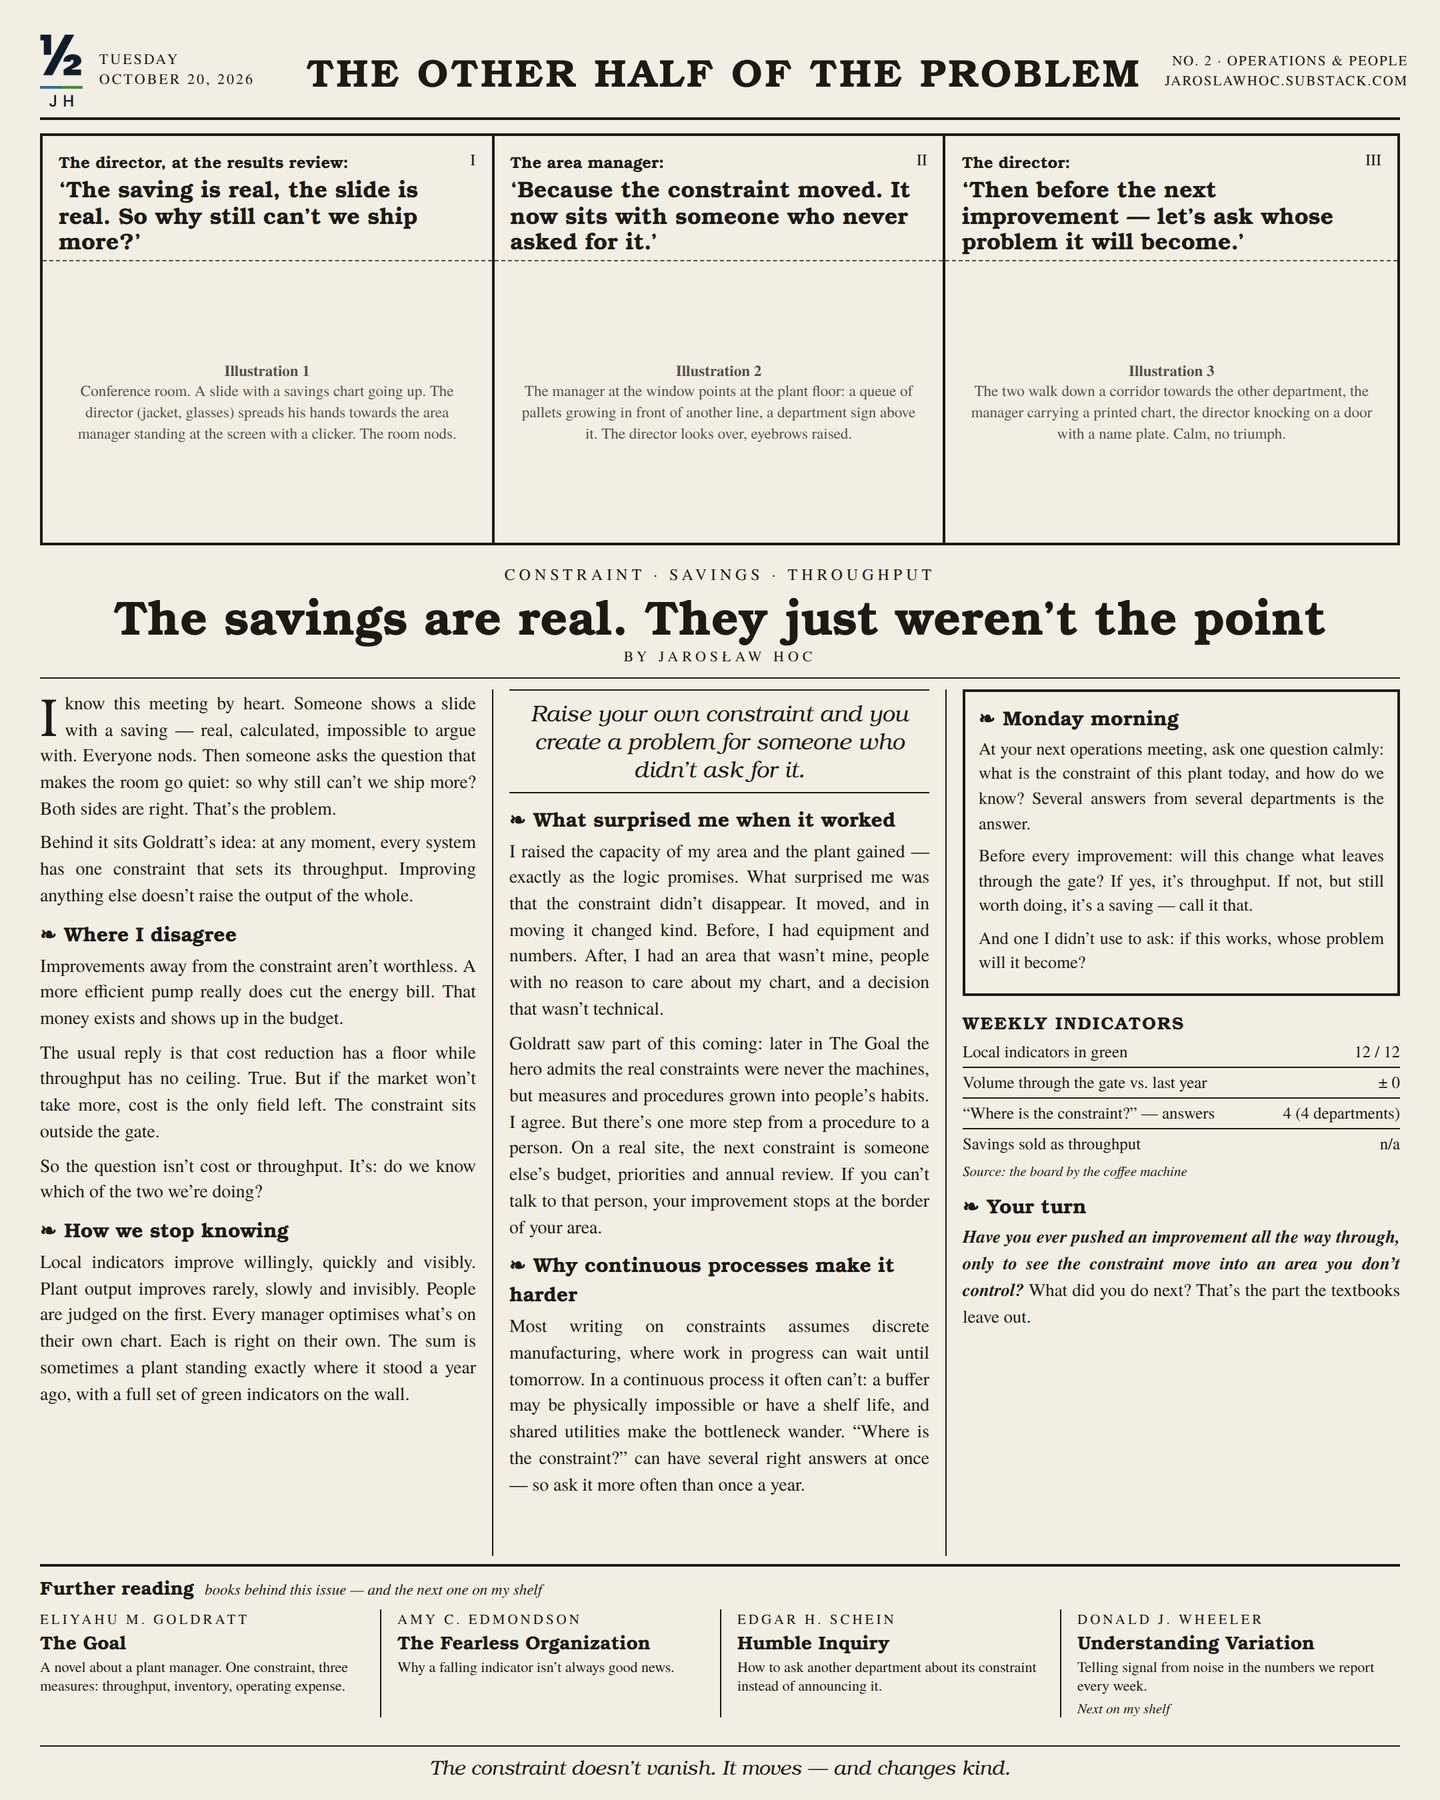
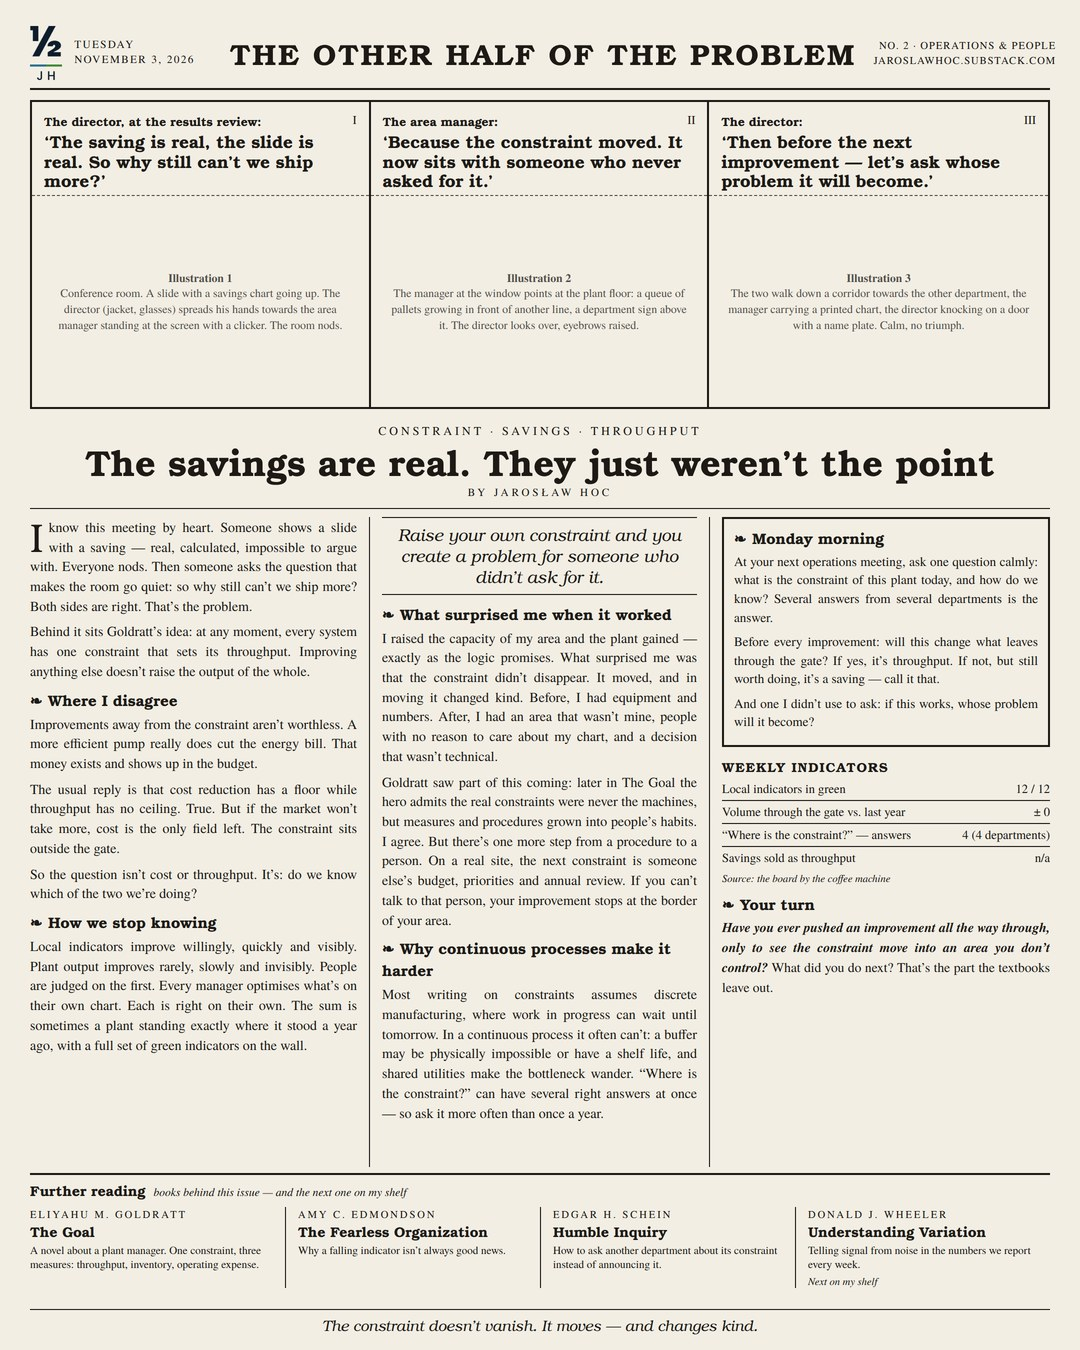
Miesięcznik: nowe daty numerów 2–4 (3.11, 1.12, 5.01)

diff --git a/podglad-7f3k-plan.html b/podglad-7f3k-plan.html
@@ -15,8 +15,8 @@
 <link rel="alternate" hreflang="en" href="https://jaroslawhoc.pl/podglad-7f3k-issues">
 <link rel="preconnect" href="https://fonts.googleapis.com"><link rel="preconnect" href="https://fonts.gstatic.com" crossorigin>
 <link href="https://fonts.googleapis.com/css2?family=Raleway:wght@400;500;600;700&display=swap" rel="stylesheet">
-<link rel="stylesheet" href="style.css?v=1790628794">
-<link rel="icon" href="favicon.png?v=1790628794" type="image/png"><link rel="apple-touch-icon" href="apple-touch-icon.png">
+<link rel="stylesheet" href="style.css?v=1791019325">
+<link rel="icon" href="favicon.png?v=1791019325" type="image/png"><link rel="apple-touch-icon" href="apple-touch-icon.png">
 </head>
 <body>
 <header><div class="wrap nav">
@@ -24,7 +24,7 @@
 <nav class="menu"><a href="podglad-7f3k-start" class="">Teksty</a><a href="podglad-7f3k-numery" class="on">Numery</a><a href="podglad-7f3k-o-mnie" class="">O mnie</a><a href="podglad-7f3k-issues" class="lang" lang="en">EN</a></nav>
 </div></header>
 <main class="wrap">
-<h2>Numery</h2><p class="lead">Każdy tekst ma swoją stronę gazety: rysunek, skrót i jedna rzecz do zrobienia w poniedziałek rano. Kliknij, żeby powiększyć.</p><div class="issues"><figure class="issue"><a href="gazeta-nr2-pl.jpg"><img src="gazeta-nr2-pl.jpg" alt="Oszczędność jest prawdziwa. Tylko nie o nią chodziło" loading="lazy"></a><figcaption><b>Nr 2</b> · 20.10.2026 · <em>w przygotowaniu</em><br>Oszczędność jest prawdziwa. Tylko nie o nią chodziło</figcaption></figure><figure class="issue"><a href="gazeta-nr3-pl.jpg"><img src="gazeta-nr3-pl.jpg" alt="Szczegół jako argument" loading="lazy"></a><figcaption><b>Nr 3</b> · 3.11.2026 · <em>w przygotowaniu</em><br>Szczegół jako argument</figcaption></figure><figure class="issue"><a href="gazeta-nr4-pl.jpg"><img src="gazeta-nr4-pl.jpg" alt="Pytania przed pierwszym problemem" loading="lazy"></a><figcaption><b>Nr 4</b> · 17.11.2026 · <em>w przygotowaniu</em><br>Pytania przed pierwszym problemem</figcaption></figure></div>
+<h2>Numery</h2><p class="lead">Każdy tekst ma swoją stronę gazety: rysunek, skrót i jedna rzecz do zrobienia w poniedziałek rano. Kliknij, żeby powiększyć.</p><div class="issues"><figure class="issue"><a href="gazeta-nr2-pl.jpg"><img src="gazeta-nr2-pl.jpg" alt="Oszczędność jest prawdziwa. Tylko nie o nią chodziło" loading="lazy"></a><figcaption><b>Nr 2</b> · 3.11.2026 · <em>w przygotowaniu</em><br>Oszczędność jest prawdziwa. Tylko nie o nią chodziło</figcaption></figure><figure class="issue"><a href="gazeta-nr3-pl.jpg"><img src="gazeta-nr3-pl.jpg" alt="Szczegół jako argument" loading="lazy"></a><figcaption><b>Nr 3</b> · 1.12.2026 · <em>w przygotowaniu</em><br>Szczegół jako argument</figcaption></figure><figure class="issue"><a href="gazeta-nr4-pl.jpg"><img src="gazeta-nr4-pl.jpg" alt="Pytania przed pierwszym problemem" loading="lazy"></a><figcaption><b>Nr 4</b> · 5.01.2027 · <em>w przygotowaniu</em><br>Pytania przed pierwszym problemem</figcaption></figure></div>
 </main>
 <footer class="wrap">
 <span>© 2026 Jarosław Hoc · Druga połowa problemu</span>

diff --git a/podglad-7f3k-plan-en.html b/podglad-7f3k-plan-en.html
@@ -15,8 +15,8 @@
 <link rel="alternate" hreflang="en" href="https://jaroslawhoc.pl/podglad-7f3k-issues">
 <link rel="preconnect" href="https://fonts.googleapis.com"><link rel="preconnect" href="https://fonts.gstatic.com" crossorigin>
 <link href="https://fonts.googleapis.com/css2?family=Raleway:wght@400;500;600;700&display=swap" rel="stylesheet">
-<link rel="stylesheet" href="style.css?v=1790628794">
-<link rel="icon" href="favicon.png?v=1790628794" type="image/png"><link rel="apple-touch-icon" href="apple-touch-icon.png">
+<link rel="stylesheet" href="style.css?v=1791019325">
+<link rel="icon" href="favicon.png?v=1791019325" type="image/png"><link rel="apple-touch-icon" href="apple-touch-icon.png">
 </head>
 <body>
 <header><div class="wrap nav">
@@ -24,7 +24,7 @@
 <nav class="menu"><a href="podglad-7f3k-en" class="">Writing</a><a href="podglad-7f3k-issues" class="on">Issues</a><a href="podglad-7f3k-about" class="">About</a><a href="podglad-7f3k-numery" class="lang" lang="pl">PL</a></nav>
 </div></header>
 <main class="wrap">
-<h2>Issues</h2><p class="lead">Every piece gets its own newspaper page: a drawing, a digest and one thing to do on Monday morning. Click to enlarge.</p><div class="issues"><figure class="issue"><a href="gazeta-nr2-en.jpg"><img src="gazeta-nr2-en.jpg" alt="The savings are real. They just weren’t the point" loading="lazy"></a><figcaption><b>No. 2</b> · 20 October 2026 · <em>in preparation</em><br>The savings are real. They just weren’t the point</figcaption></figure><figure class="issue"><a href="gazeta-nr3-en.jpg"><img src="gazeta-nr3-en.jpg" alt="The detail is the argument" loading="lazy"></a><figcaption><b>No. 3</b> · 3 November 2026 · <em>in preparation</em><br>The detail is the argument</figcaption></figure><figure class="issue"><a href="gazeta-nr4-en.jpg"><img src="gazeta-nr4-en.jpg" alt="Questions before the first problem" loading="lazy"></a><figcaption><b>No. 4</b> · 17 November 2026 · <em>in preparation</em><br>Questions before the first problem</figcaption></figure></div>
+<h2>Issues</h2><p class="lead">Every piece gets its own newspaper page: a drawing, a digest and one thing to do on Monday morning. Click to enlarge.</p><div class="issues"><figure class="issue"><a href="gazeta-nr2-en.jpg"><img src="gazeta-nr2-en.jpg" alt="The savings are real. They just weren’t the point" loading="lazy"></a><figcaption><b>No. 2</b> · 3 November 2026 · <em>in preparation</em><br>The savings are real. They just weren’t the point</figcaption></figure><figure class="issue"><a href="gazeta-nr3-en.jpg"><img src="gazeta-nr3-en.jpg" alt="The detail is the argument" loading="lazy"></a><figcaption><b>No. 3</b> · 1 December 2026 · <em>in preparation</em><br>The detail is the argument</figcaption></figure><figure class="issue"><a href="gazeta-nr4-en.jpg"><img src="gazeta-nr4-en.jpg" alt="Questions before the first problem" loading="lazy"></a><figcaption><b>No. 4</b> · 5 January 2027 · <em>in preparation</em><br>Questions before the first problem</figcaption></figure></div>
 </main>
 <footer class="wrap">
 <span>© 2026 Jarosław Hoc · The Other Half of the Problem</span>

diff --git a/logo-strona.html b/logo-strona.html
@@ -20,6 +20,6 @@ body{margin:0;background:#fff;min-height:100vh;display:flex;flex-direction:colum
 <a class="logo" href="podglad-7f3k-start"><img src="logo-white.png" alt="½ JH"></a>
 <a class="n" href="podglad-7f3k-start">½ · Druga połowa problemu</a>
 <div class="s">Jarosław Hoc</div>
-<div class="row"><a class="c off" href="gazeta-nr1-pl.jpg" title="Naprawa to jeszcze nie wniosek"><img src="gazeta-nr1-pl.jpg" alt=""><span>Nr 1<br><small>6.10</small></span></a><a class="c off" href="gazeta-nr2-pl.jpg" title="Oszczędność jest prawdziwa. Tylko nie o nią chodziło"><img src="gazeta-nr2-pl.jpg" alt=""><span>Nr 2<br><small>20.10</small></span></a><a class="c off" href="gazeta-nr3-pl.jpg" title="Szczegół jako argument"><img src="gazeta-nr3-pl.jpg" alt=""><span>Nr 3<br><small>3.11</small></span></a><a class="c off" href="gazeta-nr4-pl.jpg" title="Pytania przed pierwszym problemem"><img src="gazeta-nr4-pl.jpg" alt=""><span>Nr 4<br><small>17.11</small></span></a></div>
+<div class="row"><a class="c off" href="gazeta-nr1-pl.jpg" title="Naprawa to jeszcze nie wniosek"><img src="gazeta-nr1-pl.jpg" alt=""><span>Nr 1<br><small>6.10</small></span></a><a class="c off" href="gazeta-nr2-pl.jpg" title="Oszczędność jest prawdziwa. Tylko nie o nią chodziło"><img src="gazeta-nr2-pl.jpg" alt=""><span>Nr 2<br><small>3.11</small></span></a><a class="c off" href="gazeta-nr3-pl.jpg" title="Szczegół jako argument"><img src="gazeta-nr3-pl.jpg" alt=""><span>Nr 3<br><small>1.12</small></span></a><a class="c off" href="gazeta-nr4-pl.jpg" title="Pytania przed pierwszym problemem"><img src="gazeta-nr4-pl.jpg" alt=""><span>Nr 4<br><small>5.01</small></span></a></div>
 <div class="hint">numery aktywują się w dniu publikacji</div>
 </body></html>

diff --git a/index.html b/index.html
@@ -1,7 +1,7 @@
 <!doctype html><html lang="pl"><head><meta charset="utf-8"><meta name="viewport" content="width=device-width,initial-scale=1">
 <title>Druga połowa problemu — Jarosław Hoc</title><meta name="description" content="Techniczne rozwiązania zawodzą z powodów, które nie są techniczne.">
 <link rel="preconnect" href="https://fonts.googleapis.com"><link rel="preconnect" href="https://fonts.gstatic.com" crossorigin>
-<link href="https://fonts.googleapis.com/css2?family=Raleway:wght@400;600;700&display=swap" rel="stylesheet"><link rel="stylesheet" href="style.css?v=1790628794"><link rel="icon" href="favicon.png?v=1790628794" type="image/png">
+<link href="https://fonts.googleapis.com/css2?family=Raleway:wght@400;600;700&display=swap" rel="stylesheet"><link rel="stylesheet" href="style.css?v=1791019325"><link rel="icon" href="favicon.png?v=1791019325" type="image/png">
 <style>.soon{min-height:80vh;display:flex;flex-direction:column;justify-content:center;align-items:flex-start;padding:60px 0}.soon img{height:84px;margin-bottom:34px}.soon h1{font-size:34px;line-height:1.2;color:var(--navy);margin:0 0 14px;font-weight:700}.soon .sub{font-size:19px;margin:0 0 6px}.soon .en{color:var(--gray);font-size:16px;margin:0 0 30px}.soon .who{color:var(--gray);font-size:15px;margin-top:26px}</style></head>
 <body><main class="wrap"><section class="soon"><img src="logo.png" alt="½ JH">
 <h1>Druga połowa problemu</h1>

diff --git a/podglad-7f3k-issues.html b/podglad-7f3k-issues.html
@@ -15,8 +15,8 @@
 <link rel="alternate" hreflang="en" href="https://jaroslawhoc.pl/podglad-7f3k-issues">
 <link rel="preconnect" href="https://fonts.googleapis.com"><link rel="preconnect" href="https://fonts.gstatic.com" crossorigin>
 <link href="https://fonts.googleapis.com/css2?family=Raleway:wght@400;500;600;700&display=swap" rel="stylesheet">
-<link rel="stylesheet" href="style.css?v=1790628794">
-<link rel="icon" href="favicon.png?v=1790628794" type="image/png"><link rel="apple-touch-icon" href="apple-touch-icon.png">
+<link rel="stylesheet" href="style.css?v=1791019325">
+<link rel="icon" href="favicon.png?v=1791019325" type="image/png"><link rel="apple-touch-icon" href="apple-touch-icon.png">
 </head>
 <body>
 <header><div class="wrap nav">

diff --git a/podglad-7f3k-numery.html b/podglad-7f3k-numery.html
@@ -15,8 +15,8 @@
 <link rel="alternate" hreflang="en" href="https://jaroslawhoc.pl/podglad-7f3k-issues">
 <link rel="preconnect" href="https://fonts.googleapis.com"><link rel="preconnect" href="https://fonts.gstatic.com" crossorigin>
 <link href="https://fonts.googleapis.com/css2?family=Raleway:wght@400;500;600;700&display=swap" rel="stylesheet">
-<link rel="stylesheet" href="style.css?v=1790628794">
-<link rel="icon" href="favicon.png?v=1790628794" type="image/png"><link rel="apple-touch-icon" href="apple-touch-icon.png">
+<link rel="stylesheet" href="style.css?v=1791019325">
+<link rel="icon" href="favicon.png?v=1791019325" type="image/png"><link rel="apple-touch-icon" href="apple-touch-icon.png">
 </head>
 <body>
 <header><div class="wrap nav">

diff --git a/podglad-7f3k-about.html b/podglad-7f3k-about.html
@@ -15,8 +15,8 @@
 <link rel="alternate" hreflang="en" href="https://jaroslawhoc.pl/podglad-7f3k-about">
 <link rel="preconnect" href="https://fonts.googleapis.com"><link rel="preconnect" href="https://fonts.gstatic.com" crossorigin>
 <link href="https://fonts.googleapis.com/css2?family=Raleway:wght@400;500;600;700&display=swap" rel="stylesheet">
-<link rel="stylesheet" href="style.css?v=1790628794">
-<link rel="icon" href="favicon.png?v=1790628794" type="image/png"><link rel="apple-touch-icon" href="apple-touch-icon.png">
+<link rel="stylesheet" href="style.css?v=1791019325">
+<link rel="icon" href="favicon.png?v=1791019325" type="image/png"><link rel="apple-touch-icon" href="apple-touch-icon.png">
 </head>
 <body>
 <header><div class="wrap nav">

diff --git a/podglad-7f3k-o-mnie.html b/podglad-7f3k-o-mnie.html
@@ -15,8 +15,8 @@
 <link rel="alternate" hreflang="en" href="https://jaroslawhoc.pl/podglad-7f3k-about">
 <link rel="preconnect" href="https://fonts.googleapis.com"><link rel="preconnect" href="https://fonts.gstatic.com" crossorigin>
 <link href="https://fonts.googleapis.com/css2?family=Raleway:wght@400;500;600;700&display=swap" rel="stylesheet">
-<link rel="stylesheet" href="style.css?v=1790628794">
-<link rel="icon" href="favicon.png?v=1790628794" type="image/png"><link rel="apple-touch-icon" href="apple-touch-icon.png">
+<link rel="stylesheet" href="style.css?v=1791019325">
+<link rel="icon" href="favicon.png?v=1791019325" type="image/png"><link rel="apple-touch-icon" href="apple-touch-icon.png">
 </head>
 <body>
 <header><div class="wrap nav">

diff --git a/podglad-7f3k-en.html b/podglad-7f3k-en.html
@@ -15,8 +15,8 @@
 <link rel="alternate" hreflang="en" href="https://jaroslawhoc.pl/podglad-7f3k-en">
 <link rel="preconnect" href="https://fonts.googleapis.com"><link rel="preconnect" href="https://fonts.gstatic.com" crossorigin>
 <link href="https://fonts.googleapis.com/css2?family=Raleway:wght@400;500;600;700&display=swap" rel="stylesheet">
-<link rel="stylesheet" href="style.css?v=1790628794">
-<link rel="icon" href="favicon.png?v=1790628794" type="image/png"><link rel="apple-touch-icon" href="apple-touch-icon.png">
+<link rel="stylesheet" href="style.css?v=1791019325">
+<link rel="icon" href="favicon.png?v=1791019325" type="image/png"><link rel="apple-touch-icon" href="apple-touch-icon.png">
 </head>
 <body>
 <header><div class="wrap nav">

diff --git a/podglad-7f3k-start.html b/podglad-7f3k-start.html
@@ -15,8 +15,8 @@
 <link rel="alternate" hreflang="en" href="https://jaroslawhoc.pl/podglad-7f3k-en">
 <link rel="preconnect" href="https://fonts.googleapis.com"><link rel="preconnect" href="https://fonts.gstatic.com" crossorigin>
 <link href="https://fonts.googleapis.com/css2?family=Raleway:wght@400;500;600;700&display=swap" rel="stylesheet">
-<link rel="stylesheet" href="style.css?v=1790628794">
-<link rel="icon" href="favicon.png?v=1790628794" type="image/png"><link rel="apple-touch-icon" href="apple-touch-icon.png">
+<link rel="stylesheet" href="style.css?v=1791019325">
+<link rel="icon" href="favicon.png?v=1791019325" type="image/png"><link rel="apple-touch-icon" href="apple-touch-icon.png">
 </head>
 <body>
 <header><div class="wrap nav">
